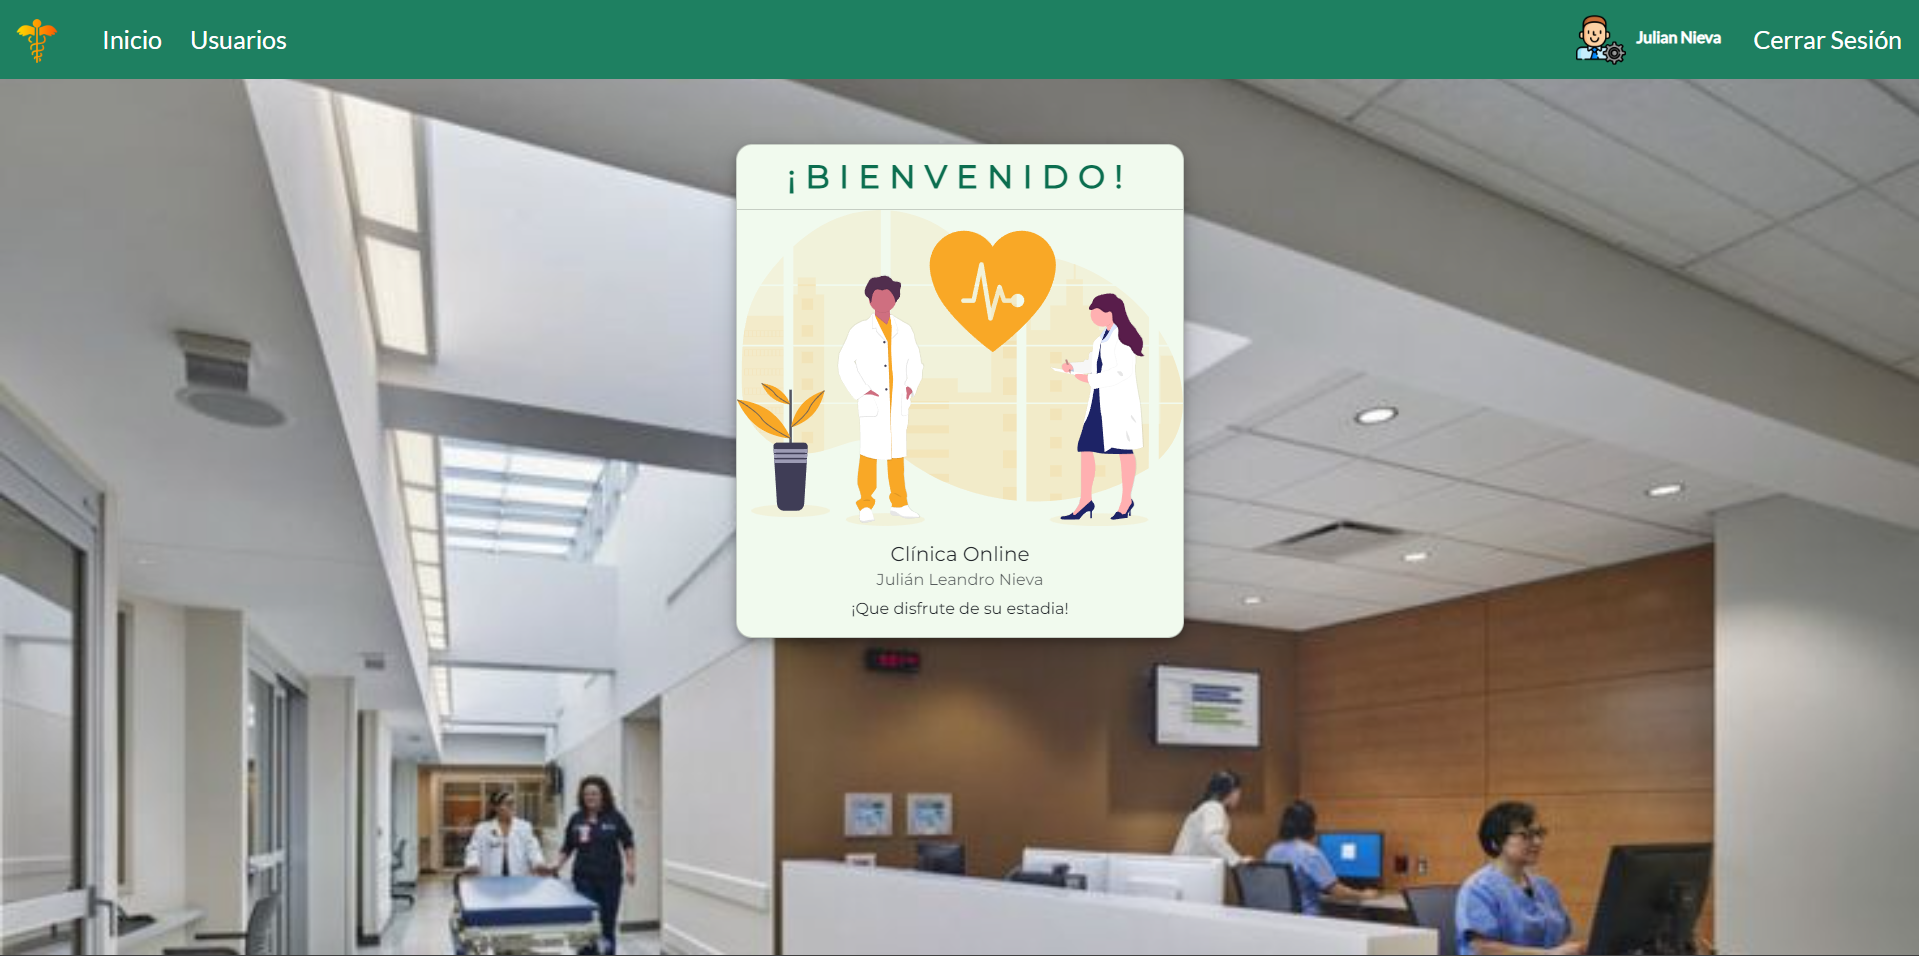
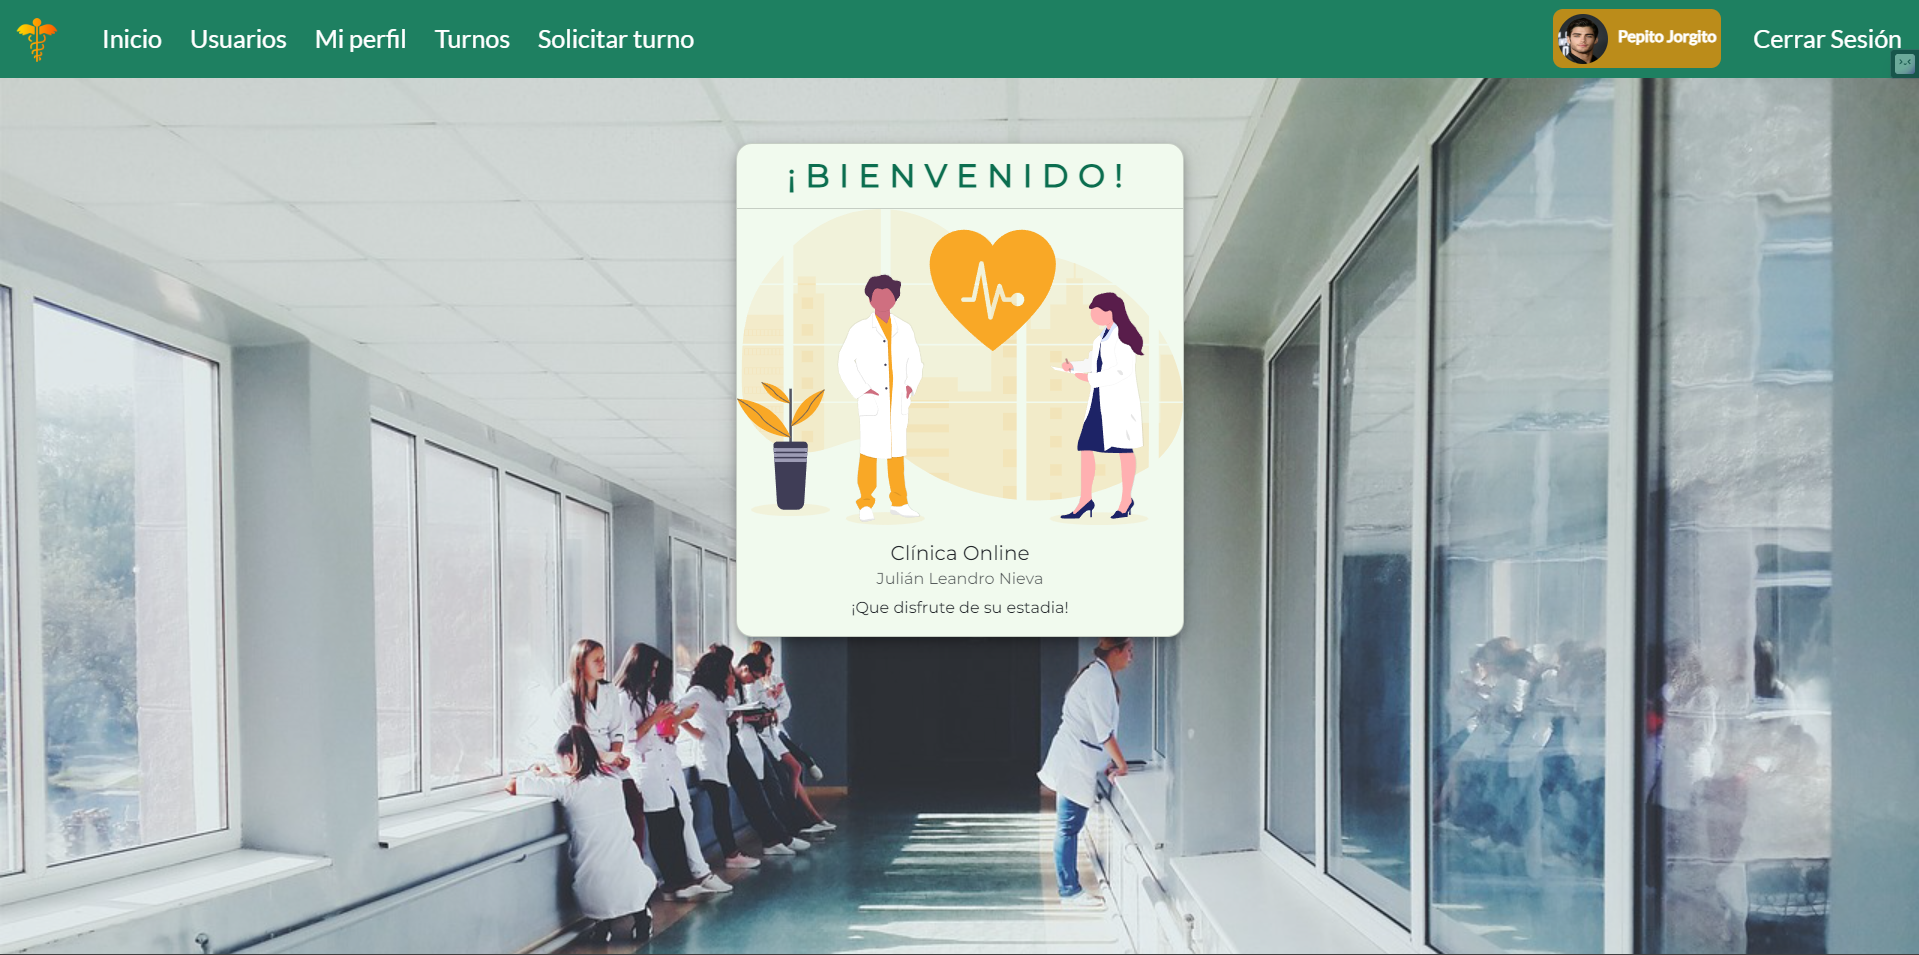
Modificado README

diff --git a/README.md b/README.md
@@ -20,35 +20,87 @@ administración de la misma".**
 # INICIO
 ### La primera vista que tendra el usuario al no tener su sesión iniciada sera una Bienvenida con dos botones que le permitan redirigirse al Login o al Registro
 
-![](FotosReadme/Welcome.png)
+![](FotosReadme/home.png)
 
 # REGISTRO
 ### En la página de registro nos encontramos con la seleccion de dos tipos de usuarios. Al seleccionar un usuario se mostrara el formulario correspondiente
 
-![](FotosReadme/Register.png)
+![](FotosReadme/registro.png)
 
 ## REGISTRO PACIENTE
 
-![](FotosReadme/RegisterPatient.png)
+![](FotosReadme/regPaciente.png)
 
 ## REGISTRO ESPECIALISTA
 
-![](FotosReadme/RegisterSpecialist.png)
+![](FotosReadme/regEspecialista.png)
 
 # INICIAR SESIÓN
 ### En la página de iniciar sesión nos encontraremos con un formulario a completar y un total de 6 botones que permitan el acceso rápido
 
-![](FotosReadme/Login.png)
+![](FotosReadme/login.png)
 
 # VISTA ADMINISTRADOR
-### Al iniciar sesión como Administrador contara con las siguientes opciones de interacción : *Usuarios*
+### Al iniciar sesión como Administrador contara con las siguientes opciones de interacción : *Usuarios - Mi Perfil - Turnos - Solicitar Turno*
 
-![](FotosReadme/AdminView.png)
+![](FotosReadme/adminview.png)
 
 ## Vista Usuarios
-### Desde aca podemos ver el listado de todos los usuarios. Se puede habilitar o deshabilitar un Especialista. Tambien podemos registrar a un nuevo usuario siguiendo el criterio anterior, pero con la oportunidad de registrar a un administrador
+### Desde aca podemos ver el listado de todos los usuarios. Se puede habilitar o deshabilitar un Especialista. Revisar el historial clinico de un Paciente, y descargar sus turnos. Tambien podemos registrar a un nuevo usuario siguiendo el criterio anterior, pero con la oportunidad de registrar a un administrador
 
-![](FotosReadme/Users.png)
+![](FotosReadme/listado-Usuarios.png)
+## Registro de Admin
+![](FotosReadme/registroAdmin.png)
+
+#
+![](FotosReadme/reg-Admin.png)
+
+## Vista Mi Perfil
+### En esta sección el Administrador podra ver la informacion de su cuenta
+![](FotosReadme/miperfil-Admin.png)
+
+## Vista Turnos
+### En esta sección el Administrador podra ver todos los turnos dentro de la Clinica
+![](FotosReadme/turnosAdmin.png)
+
+## Vista Solicitar Turno
+### En esta sección el Administrador podra solicitar un Turno para un Paciente que seleccione
+![](FotosReadme/solicitarTurnoAdmin.png)
+
+### Selección de Especialidad, una vez que el Administrador haya seleccionado a un Paciente, se le muestra el listado de Especialidades. La vista del Paciente al solicitar turno comienza desde aqui
+![](FotosReadme/solicitarTurnoPac.png)
+
+### Una vez seleccionada la Especialidad, se mostrara los Especilistas que trabajen con la especialidad seleccionada
+![](FotosReadme/solicitarTurnoPac2.png)
+
+### Como vista final, Si selecciono a un Especialista, se mostrara los turnos que tiene disponibles
+![](FotosReadme/solicitarTurnoPac3.png)
+
+# VISTA PACIENTE
+### Al iniciar sesión como Paciente contara con las siguientes opciones de interacción : *Mi Perfil - Mis Turnos - Solicitar Turno*
+
+## Vista Mi Perfil
+### En esta sección el Paciente podra ver la informacion de su cuenta, y si tiene al menos un Historial Clinico, podra visualizarlo y descargarlo
+![](FotosReadme/perfilPaciente.png)
+
+## Vista Mis Turnos
+### En esta sección el Paciente podra ver los turnos que haya solicitado 
+![](FotosReadme/turnosPaciente.png)
+
+# VISTA ESPECIALISTA
+### Al iniciar sesión como Especialista contara con las siguientes opciones de interacción : *Mi Perfil - Mis Turnos - Mis Pacientes*
+
+## Vista Mis Turnos
+### En esta sección el Especialista podra ver los turnos que le fueron solicitados y cargar Historial Clinico a un Paciente
+![](FotosReadme/turnosEsp.png)
+
+## Vista Mis Pacientes
+### En esta sección el Especialista podra el Historial Clinico de un Paciente, siempre y cuando haya completado un turno con este último
+![](FotosReadme/misPacientes.png)
+
+## Vista Mi Perfil
+### En esta sección el Especialista podra ver su informacion personal y crear Turnos
+![](FotosReadme/miperfil-Esp.png)
 
 <details>
 
